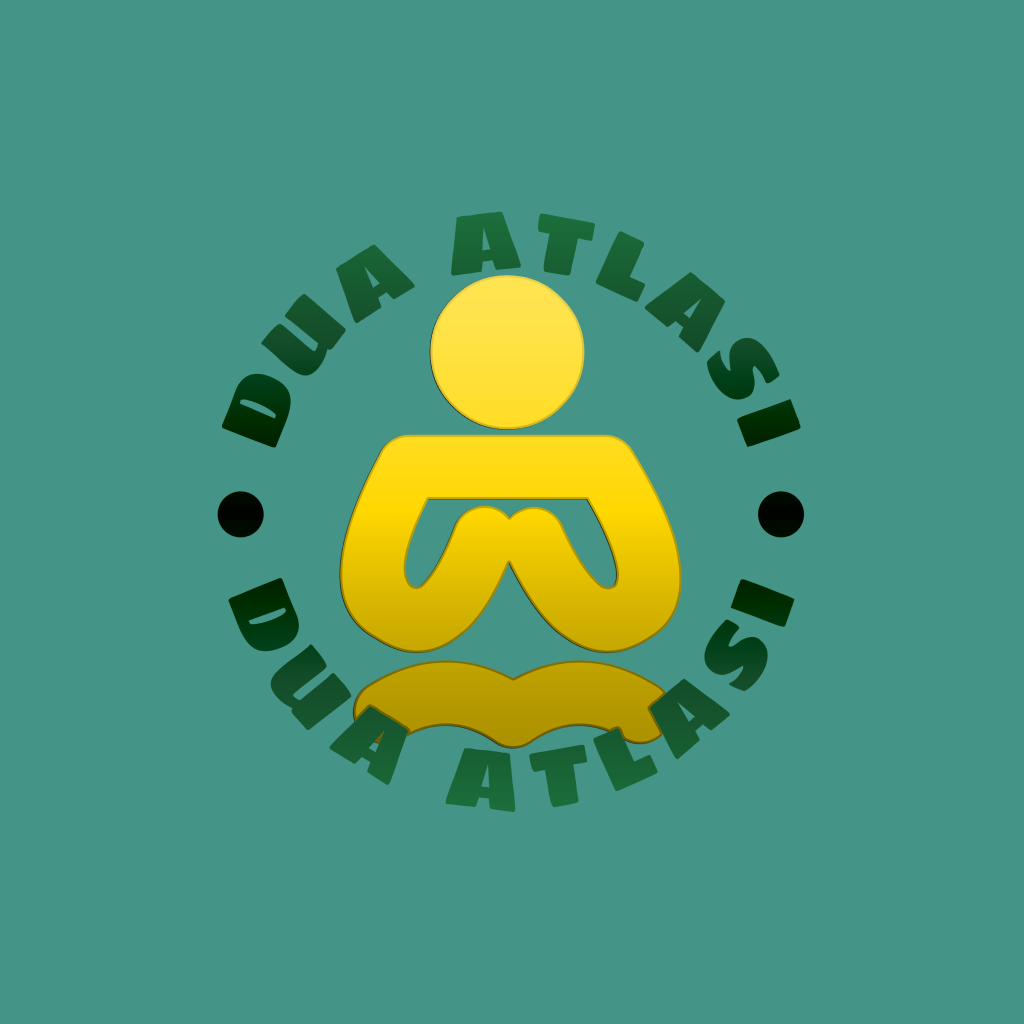
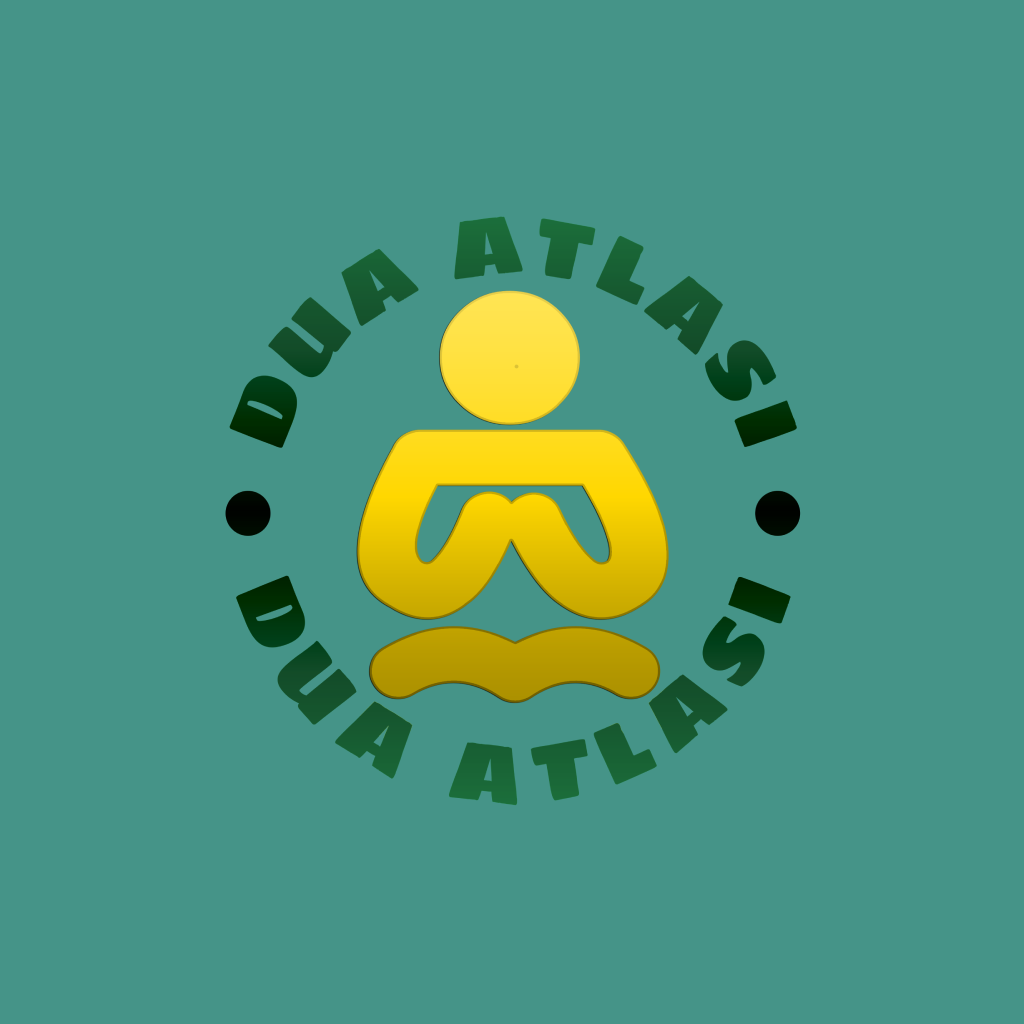
DUA ATLASI App. Final
DUA ATLASI App. Final
DUA ATLASI App. Final
ready to be published.
about page updted.

Qs:
Hard to scroll down to the end of the page
Warning: Each child in a list should have a unique "key" prop. ?
Navigator Label fontsize max13, goes 2 line after that size?
d076d0e
app.json
e978235
pages/About.js

logo update

diff --git a/pages/About.js b/pages/About.js
@@ -40,13 +40,12 @@ const styles = StyleSheet.create({
   about: {
     flex: 1,
     padding: 10,
+    paddingBottom: 20
     },
 
     contact: {
       alignItems: 'flex-start',
       textAlign: 'left',  
-      
-      
       },
 
     logoContainer: {
@@ -56,7 +55,7 @@ const styles = StyleSheet.create({
 
       logo: {
         width: 'auto',
-        height: '80%',
+        height: '90%',
       },
 
   }
